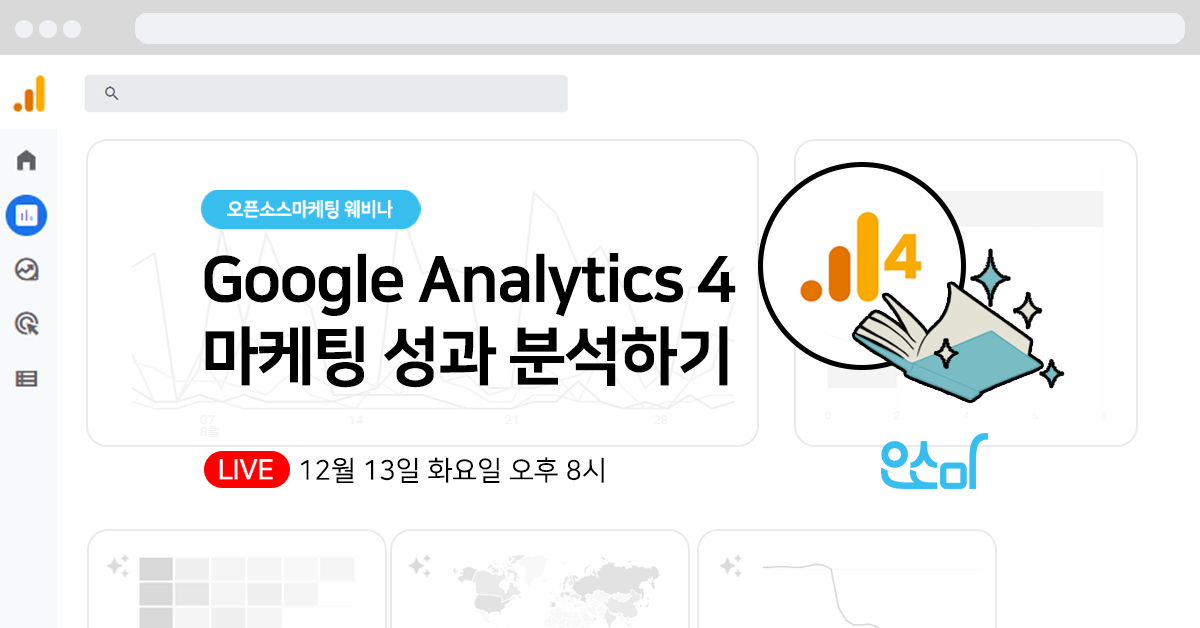
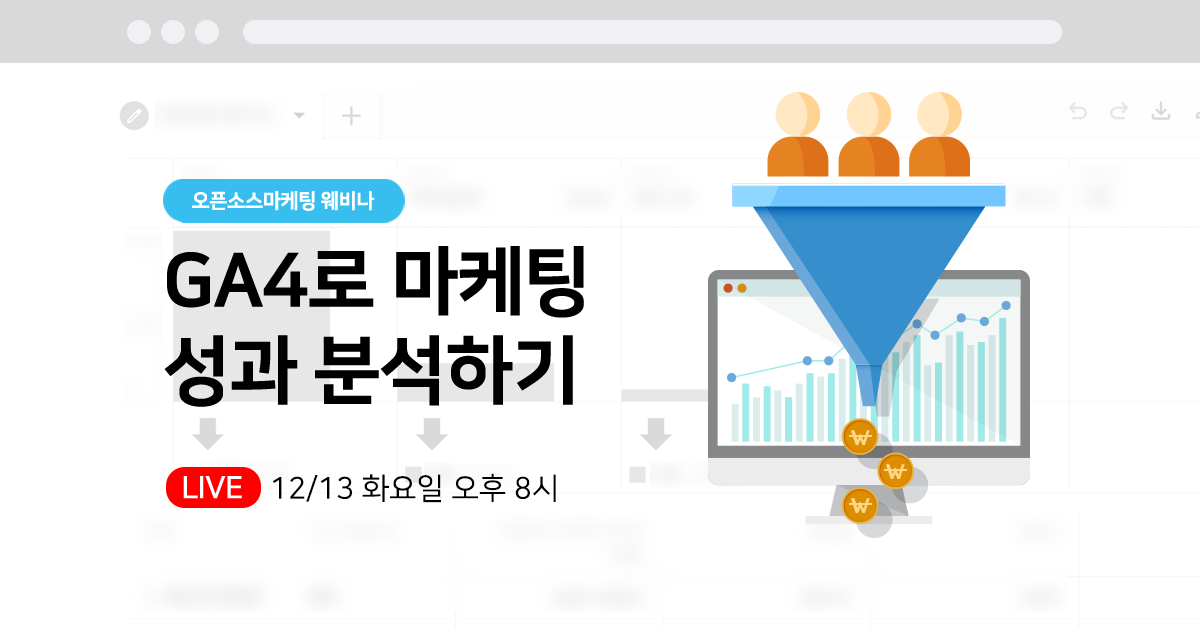
웨비나 썸네일 변경

diff --git a/_includes/section-featured.html b/_includes/section-featured.html
@@ -1,10 +1,10 @@
-<section class="">
+<section class="mt-5 mb-5">
   <div class="container">
     <div class="row">
-      <div class="col col-md-4 mb-5">
+      <div class="col col-3 col-t-6 mb-5">
 
         <!-- Icon -->
-        <div class="mb-3">
+        <div class="mb-3 text-center">
           <svg width="24" height="24" viewBox="0 0 24 24" xmlns="http://www.w3.org/2000/svg">
             <g fill="none" fill-rule="evenodd">
               <path d="M0 0h24v24H0z"></path>
@@ -15,25 +15,21 @@
         </div>
 
         <!-- Heading -->
-        <h3>
-          신규 런칭/전략 수립
+        <h3 class="text-center">
+          데이터 분석/구축
         </h3>
 
         <!-- Text -->
-        <p class="text-muted mb-6 mb-md-0">
-          신규 런칭 또는 리브랜딩을 위한 디지털 마케팅 전략 제안
-        </p>
-
-        <p class="text-muted mt-2 sub__detail__text">
-          #포지셔닝 #인큐베이팅
+        <p class="text-muted mb-6 mb-md-0 text-center">
+          GA4, Amplitude 등 분석 툴 맞춤 세팅 및 개발자 소통 가이드, 데이터 시각화
         </p>
 
       </div>
 
-      <div class="col col-md-4">
+      <div class="col col-3 col-t-6">
 
         <!-- Icon -->
-        <div class="mb-3">
+        <div class="mb-3 text-center">
           <svg width="24" height="24" viewBox="0 0 24 24" xmlns="http://www.w3.org/2000/svg">
             <g fill="none" fill-rule="evenodd">
               <path d="M0 0h24v24H0z"></path>
@@ -44,25 +40,24 @@
         </div>
 
         <!-- Heading -->
-        <h3>
-          데이터 분석 환경 구축
+        <h3 class="text-center">
+          그로스해킹
         </h3>
 
         <!-- Text -->
-        <p class="text-muted mb-6 mb-md-0">
-          데이터 기반 의사 결정을 위한 분석 도구 설치 및 대시보드 구현
-        </p>
-
-        <p class="text-muted mt-2 sub__detail__text">
-          #GA4 #Amplitude #GTM
+        <p class="text-muted mb-6 mb-md-0 text-center">
+          사용자 경험 최적화<br>
+          유입/광고 최적화<br>
+          브랜드 포지셔닝<br>
+          마케팅 전략과 실행<br>
         </p>
 
       </div>
 
-      <div class="col col-md-4">
+      <div class="col col-3 col-t-6">
 
         <!-- Icon -->
-        <div class="mb-3">
+        <div class="mb-3 text-center">
           <svg width="24" height="24" viewBox="0 0 24 24" xmlns="http://www.w3.org/2000/svg">
             <g fill="none" fill-rule="evenodd">
               <path d="M0 0h24v24H0z"></path>
@@ -73,25 +68,22 @@
         </div>
 
         <!-- Heading -->
-        <h3>
-          유입 극대화
+        <h3 class="text-center">
+          교육/강의
         </h3>
 
         <!-- Text -->
-        <p class="text-muted mb-6 mb-md-0">
-          고객 유입 극대화를 위한 매체 분석 및 운영 전략 제안
-        </p>
-
-        <p class="text-muted mt-2 sub__detail__text">
-          #채널분석 #SEO
+        <p class="text-muted mb-6 mb-md-0 text-center">
+          마케팅, 데이터 분석 관련 역량 육성 및
+          내부 담당자 교육
         </p>
 
       </div>
 
-      <div class="col col-md-4">
+      <div class="col col-3 col-t-6">
 
         <!-- Icon -->
-        <div class="mb-3">
+        <div class="mb-3 text-center">
           <svg width="24" height="24" viewBox="0 0 24 24" xmlns="http://www.w3.org/2000/svg">
             <g fill="none" fill-rule="evenodd">
               <path d="M0 0h24v24H0z"></path>
@@ -102,75 +94,13 @@
         </div>
 
         <!-- Heading -->
-        <h3>
-          고객 행동 분석
+        <h3 class="text-center">
+          맞춤형 컨설팅
         </h3>
 
         <!-- Text -->
-        <p class="text-muted mb-6 mb-md-0">
-          퍼널 최적화, 개인화 마케팅을 위한 내부 행동 분석
-        </p>
-
-        <p class="text-muted mt-2 sub__detail__text">
-          #GA4 #Amplitude #CRM
-        </p>
-
-      </div>
-
-      <div class="col col-md-4">
-
-        <!-- Icon -->
-        <div class="mb-3">
-          <svg width="24" height="24" viewBox="0 0 24 24" xmlns="http://www.w3.org/2000/svg">
-            <g fill="none" fill-rule="evenodd">
-              <path d="M0 0h24v24H0z"></path>
-              <path d="M7 3h10a4 4 0 110 8H7a4 4 0 110-8zm0 6a2 2 0 100-4 2 2 0 000 4z" fill="#335EEA"></path>
-              <path d="M7 13h10a4 4 0 110 8H7a4 4 0 110-8zm10 6a2 2 0 100-4 2 2 0 000 4z" fill="#335EEA" opacity=".3"></path>
-            </g>
-          </svg>
-        </div>
-
-        <!-- Heading -->
-        <h3>
-          광고 최적화
-        </h3>
-
-        <!-- Text -->
-        <p class="text-muted mb-6 mb-md-0">
-          광고 매체 및 소재 효율 점검 및 광고 운영 전략 제안
-        </p>
-
-        <p class="text-muted mt-2 sub__detail__text">
-          #미디어믹스 #효율점검
-        </p>
-
-      </div>
-
-      <div class="col col-md-4">
-
-        <!-- Icon -->
-        <div class="mb-3">
-          <svg width="24" height="24" viewBox="0 0 24 24" xmlns="http://www.w3.org/2000/svg">
-            <g fill="none" fill-rule="evenodd">
-              <path d="M0 0h24v24H0z"></path>
-              <path d="M7 3h10a4 4 0 110 8H7a4 4 0 110-8zm0 6a2 2 0 100-4 2 2 0 000 4z" fill="#335EEA"></path>
-              <path d="M7 13h10a4 4 0 110 8H7a4 4 0 110-8zm10 6a2 2 0 100-4 2 2 0 000 4z" fill="#335EEA" opacity=".3"></path>
-            </g>
-          </svg>
-        </div>
-
-        <!-- Heading -->
-        <h3>
-          디지털 마케팅 교육
-        </h3>
-
-        <!-- Text -->
-        <p class="text-muted mb-6 mb-md-0">
-          디지털 마케팅 내재화를 위한 역량 강화 교육
-        </p>
-
-        <p class="text-muted mt-2 sub__detail__text">
-          #강의 #스터디
+        <p class="text-muted mb-6 mb-md-0 text-center">
+          비즈니스 상황에 맞춘 전문 컨설팅 진행
         </p>
 
       </div>
@@ -178,7 +108,7 @@
   </div> <!-- / .container -->
 </section>
 
-<section class="subscribe section">
+<!-- <section class="subscribe section">
   <div class="container">
     <div class="row">
       <div class="col col-12">
@@ -202,4 +132,4 @@
       </div>
     </div>
   </div>
-</section>
+</section> -->

diff --git a/_sass/5-customs/_customs.scss b/_sass/5-customs/_customs.scss
@@ -104,3 +104,24 @@
 hr.pricing {
   margin: 30px 15px 30px;
 }
+
+.data_featured_icon {
+  width: 7rem;
+}
+
+.bg-lightgrey {
+  background-color: #EFEFEF;
+}
+
+ul.data-list-style li {
+  list-style-type: disc;
+}
+
+.pricing-card-subtitle {
+  font-weight: 400;
+}
+
+.pricing-period {
+  font-size: 1rem;
+  font-weight: 400;
+}

diff --git a/_posts/2022-11-29-ga4-acquisition-analysis.md b/_posts/2022-11-29-ga4-acquisition-analysis.md
@@ -15,19 +15,18 @@ startdate: 2022-12-13 20:00:00 +09:00
 description: 마케터 분들을 위해 구글 애널리틱스 4를 이용해 마케팅 성과 분석하기 웨비나를 준비했습니다.
 ---
 
-여러 매체에 비용을 써서 광고를 집행하고 있는데 특정 매체에만 성과가 집중되어 다른 매체의 예산을 줄이고 성과가 좋은 매체의 비용을 늘렸더니 광고 성과가 전반적으로 하락한 경험이 있으신가요?
+여러 매체에서 동시에 광고를 집행하고 있는데 성과는 특정 매체에서만 나타난 적 있으신가요? 그 경우, 다른 매체의 예산을 모두 성과 우수 매체로 이관하여 비용을 늘렸더니 광고 성과가 오히려 하락했던 경험은 없으신가요?
 
-평소에 광고 매체의 대시보드나 대행사의 매체 보고서만으로 성과를 판단하고 계시진 않으셨나요?
+또, 매체별 성과를 분석하고 싶은데 GA4에 익숙하지 않아 각 매체나 대행사의 보고서만으로 성과를 판단하고 있지는 않으신가요?
 
-GA4 활용 방법이 낯설어 매일 실시간과 획득 보고서만을 보고 계셨나요?
-
-오픈소스마케팅에서는 이런 마케터 분들을 위해 구글 애널리틱스 4를 이용해 마케팅 성과 분석하기 웨비나를 준비했습니다.
+이런 고민을 해결하기 위해 오픈소스마케팅이 구글 애널리틱스 4를 이용해 마케팅 성과 분석하기 웨비나를 준비했습니다.
 
 ## 이런 분들을 위해 준비했습니다.
 
 - GA4로 전환을 고려, 진행하면서 궁금증이 생긴 분
 - GA4를 본격적으로 사용하고 싶은데 어디서부터 봐야할지 감이 잡히지 않는 분
 - GA4를 이용해 광고 유입 성과를 분석하고 싶은 분
+- GA4를 사용하면서 기초적인 내용부터 어려운 내용까지 물어볼 곳이 마땅치 않았던 분
 - UTM의 사용 방법과 GA4에서의 분석 방법을 몰라 어려움을 느끼는 분
 
 ## 이런 내용이 준비되어 있습니다.
